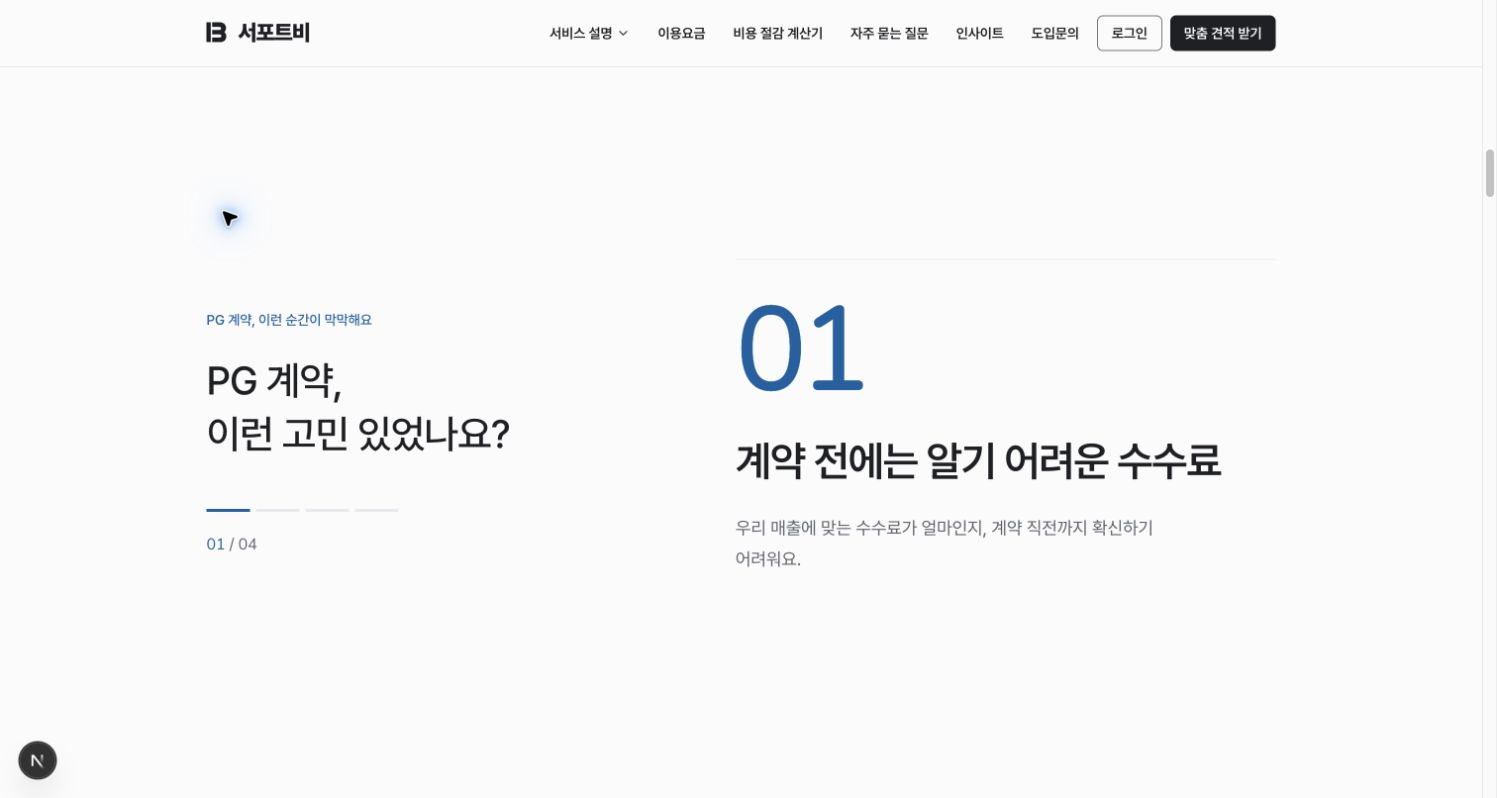
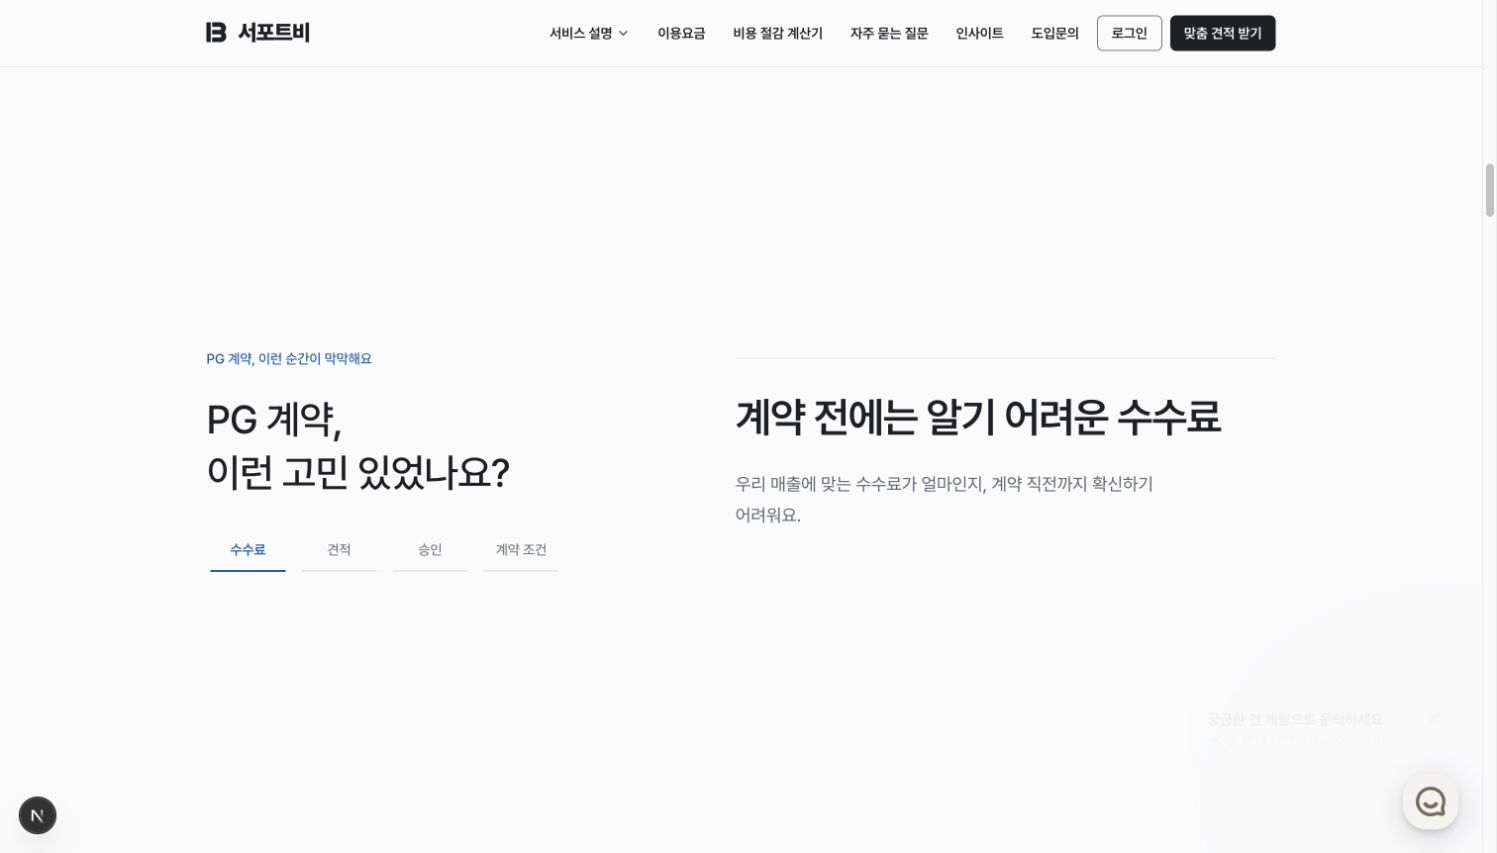
refactor: replace landing problem numbers with keyword navigation

diff --git a/components/landing/scroll-pinned/problem-story.module.css b/components/landing/scroll-pinned/problem-story.module.css
@@ -11,15 +11,14 @@
 .heading { display: flex; flex-direction: column; align-items: flex-start; gap: 24px; }
 .heading h2 { font-size: clamp(28px, 3vw, 40px); line-height: 1.35; text-wrap: balance; }
 .eyebrow { font-size: 14px; line-height: 1.5; font-weight: 500; color: var(--md-sys-color-primary); }
-.progress { margin-top: 4px; width: 194px; }
-.rail { display: flex; gap: 6px; }
-.rail button { height: 44px; min-width: 44px; flex: 1; cursor: pointer; border-radius: 6px; display: flex; align-items: center; background: transparent; }
-.rail button::after { content: ''; height: 3px; width: 100%; background: var(--md-sys-color-outline-variant); transition: background-color 240ms ease, transform 240ms ease; }
-.rail button[data-complete='true']::after { background: var(--md-sys-color-primary); }
-.rail button:hover::after { background: var(--md-sys-color-primary); transform: scaleY(2); }
+.progress { margin-top: 4px; width: 100%; max-width: 360px; }
+.rail { display: flex; gap: 8px; }
+.rail button { min-height: 44px; flex: 1; cursor: pointer; border-radius: 6px; padding: 12px 4px; background: transparent; color: var(--md-sys-color-on-surface-variant); font-size: 14px; line-height: 1.5; white-space: nowrap; position: relative; transition: color 240ms ease, background-color 240ms ease; }
+.rail button::after { content: ''; position: absolute; bottom: 0; left: 4px; right: 4px; height: 2px; background: var(--md-sys-color-outline-variant); transition: background-color 240ms ease; }
+.rail button[aria-current='step'] { color: var(--md-sys-color-primary); font-weight: 600; }
+.rail button[aria-current='step']::after { background: var(--md-sys-color-primary); }
+.rail button:hover { background: var(--md-sys-color-surface-container); }
 .rail button:focus-visible { outline: 2px solid var(--md-sys-color-primary); outline-offset: 2px; }
-.progress p { margin-top: 0; font-size: 16px; line-height: 1.5; color: var(--md-sys-color-primary); }
-.total { color: var(--md-sys-color-on-surface-variant); }
 .stage { display: grid; border-top: 1px solid var(--md-sys-color-outline-variant); }
 .scene {
   grid-area: 1 / 1;
@@ -30,7 +29,6 @@
   padding-block: 32px;
   pointer-events: none;
 }
-.number { font-size: clamp(72px, 9vw, 120px); line-height: 1; letter-spacing: -0.06em; font-weight: 500; color: var(--md-sys-color-primary); }
 .scene h3 { font-size: clamp(28px, 3.2vw, 42px); line-height: 1.3; letter-spacing: -0.03em; font-weight: 600; text-wrap: balance; word-break: keep-all; }
 .scene p { max-width: 26em; font-size: 18px; line-height: 1.75; color: var(--md-sys-color-on-surface-variant); word-break: keep-all; overflow-wrap: anywhere; }
 @media (max-width: 767px) {
@@ -39,11 +37,8 @@
   .heading { gap: 12px; }
   .heading h2 { font-size: 26px; }
   .eyebrow { font-size: 13px; }
-  .progress { margin-top: 4px; width: 100%; display: flex; align-items: center; gap: 16px; }
-  .rail { flex: 1; max-width: 194px; }
-  .progress p { margin-top: 0; font-size: 14px; }
+  .progress { margin-top: 4px; }
   .scene { gap: 16px; padding-block: 20px; }
-  .number { font-size: 56px; }
   .scene h3 { font-size: 28px; }
   .scene p { font-size: 16px; line-height: 1.65; }
 }
@@ -53,6 +48,5 @@
   .heading { gap: 8px; }
   .heading h2 { font-size: 24px; }
   .scene { gap: 12px; padding-block: 16px; }
-  .number { font-size: 48px; }
   .scene h3 { font-size: 26px; }
 }

diff --git a/components/landing/scroll-pinned/ScrollDrivenProblem.tsx b/components/landing/scroll-pinned/ScrollDrivenProblem.tsx
@@ -8,7 +8,7 @@ import { FadeInView } from '@/components/landing/FadeInView';
 import { EASE_OUT } from '@/lib/landing/ease';
 import styles from './problem-story.module.css';
 
-type Item = { num: string; title: string; desc: string };
+type Item = { num: string; keyword?: string; title: string; desc: string };
 
 // Problem 섹션: pin일 때 카드가 스크롤에 따라 1→2→3→4 누적 등장(i<=activeStep이면 표시),
 // 폴백일 때 오늘의 FadeInView 스택. 헤딩(과 선택적 intro)은 위에 고정.
@@ -37,10 +37,9 @@ export function ScrollDrivenProblem({
               <div className={styles.progress}>
                 <div className={styles.rail} role="group" aria-label="문제로 이동">
                   {items.map((item, i) => (
-                    <button type="button" key={item.num} data-complete={i <= activeStep} aria-label={`${item.num}. ${item.title}`} aria-current={i === activeStep ? 'step' : undefined} onClick={() => goToStep(i)} />
+                    <button type="button" key={item.num} aria-current={i === activeStep ? 'step' : undefined} onClick={() => goToStep(i)}>{item.keyword ?? item.title}</button>
                   ))}
                 </div>
-                <p role="progressbar" aria-label="PG 계약의 어려움" aria-valuemin={1} aria-valuemax={items.length} aria-valuenow={activeStep + 1}><span className="md-numeric">{String(activeStep + 1).padStart(2, '0')}</span><span className={styles.total}> / <span className="md-numeric">{String(items.length).padStart(2, '0')}</span></span></p>
               </div>
             </div>
             <div className={styles.stage}>
@@ -53,7 +52,6 @@ export function ScrollDrivenProblem({
                   animate={{ opacity: i === activeStep ? 1 : 0, y: i === activeStep ? 0 : i < activeStep ? -24 : 24 }}
                   transition={{ duration: 0.32, ease: EASE_OUT }}
                 >
-                  <span aria-hidden="true" className={`md-numeric ${styles.number}`}>{item.num}</span>
                   <h3>{item.title}</h3>
                   <p>{item.desc}</p>
                 </motion.article>

diff --git a/components/landing/LandingHero.tsx b/components/landing/LandingHero.tsx
@@ -19,21 +19,25 @@ import { HERO_METRICS } from '@/components/landing/hero-metrics';
 const PROBLEM_ITEMS = [
   {
     num: '01',
+    keyword: '수수료',
     title: '계약 전에는 알기 어려운 수수료',
     desc: '우리 매출에 맞는 수수료가 얼마인지, 계약 직전까지 확신하기 어려워요.',
   },
   {
     num: '02',
+    keyword: '견적',
     title: '견적 하나로 결정하기엔 막막해요',
     desc: '받은 조건이 우리 회사에 맞는지, 더 협의할 여지는 없는지 판단하기 어려워요.',
   },
   {
     num: '03',
+    keyword: '승인',
     title: '도입 준비 중에도 승인은 미지수',
     desc: 'PG사와 카드사 심사가 끝나기 전에는 실제로 도입할 수 있을지 알기 어려워요.',
   },
   {
     num: '04',
+    keyword: '계약 조건',
     title: '수수료 말고도 따질 게 많아요',
     desc: '정산주기부터 보증보험, 가입비까지. 중요한 조건을 충분히 협의하지 못한 채 계약하기도 해요.',
   },

diff --git a/SCREEN_DESIGN.md b/SCREEN_DESIGN.md
@@ -314,7 +314,7 @@ Award (B4에 인라인 통합 — 별도 라우트 없음)
 
 | # | 라우트 | 제목 | 핵심 |
 |---|---|---|---|
-| — | `/` (공개) | 구매사 랜딩 | 서비스·요금·계산기·FAQ·도입문의 섹션 탐색과 현재 위치 표시, 견적 시작·데모 진입. 문제 제기 구간은 제목을 고정하고 스크롤 위치에 따라 네 문제를 하나씩 전환하며 현재 순서와 진행 막대를 표시한다. 진행 막대는 클릭·키보드로 선택할 수 있는 버튼이며 해당 문제의 스크롤 구간으로 부드럽게 이동한다. 데스크톱은 좌우 2열, 모바일은 위아래 1열이며 역스크롤도 같은 순서를 따른다. PG 랜딩의 누적형은 유지한다. |
+| — | `/` (공개) | 구매사 랜딩 | 서비스·요금·계산기·FAQ·도입문의 섹션 탐색과 현재 위치 표시, 견적 시작·데모 진입. 문제 제기 구간은 제목을 고정하고 스크롤 위치에 따라 네 문제를 하나씩 전환하며 숫자 대신 수수료·견적·승인·계약 조건 키워드를 표시하고 현재 키워드를 강조한다. 키워드는 클릭·키보드로 선택할 수 있는 버튼이며 해당 문제의 스크롤 구간으로 부드럽게 이동한다. 데스크톱은 좌우 2열, 모바일은 위아래 1열이며 역스크롤도 같은 순서를 따른다. PG 랜딩의 누적형은 유지한다. |
 | — | `/login` | 로그인 | 이메일 + 비밀번호 |
 | — | `/login/ops` | 운영자 로그인(숨김) | Google OAuth 전용. MASTER_ACCOUNT_EMAILS allowlist default-deny. 킬스위치 off 시 404 |
 | — | `/auth/verify?token=...` | 인증 처리(스플래시) | 토큰 검증 → workspaceType 분기 후 각 profile로 |

diff --git a/docs/screenshots/landing-problem-scroll/README.md b/docs/screenshots/landing-problem-scroll/README.md
@@ -1,8 +1,8 @@
 # 구매사 랜딩 문제 제기 구간
 
-2026-10-23 로컬 개발 서버에서 촬영한 화면이다. 스크롤 위치에 따라 문제를 하나씩 표시하고, 진행 막대 버튼을 클릭하면 해당 문제 구간으로 이동한다.
+2026-10-23 로컬 개발 서버에서 촬영한 화면이다. 스크롤 위치에 따라 문제를 하나씩 표시하고, 키워드 버튼을 클릭하면 해당 문제 구간으로 이동한다.
 
-- [데스크톱](landing-problem-desktop.png): 4번에서 1번 진행 막대를 클릭한 뒤의 화면.
-- [모바일](landing-problem-mobile.png): 390×844 뷰포트에서 3번 진행 막대를 클릭한 뒤의 화면.
+- [데스크톱](landing-problem-desktop.png): 수수료 키워드를 클릭한 뒤의 화면.
+- [모바일](landing-problem-mobile.png): 390×844 뷰포트에서 승인 키워드를 클릭한 뒤의 화면.
 
-브라우저에서 클릭 이동과 현재 단계 표시를 확인했다. 하단 Next.js 표시와 포인터 강조는 개발·캡처 환경의 표시다.
+브라우저에서 클릭 이동과 현재 키워드 강조를 확인했다. 하단 Next.js 표시와 포인터 강조는 개발·캡처 환경의 표시다.

diff --git a/CHANGELOG.md b/CHANGELOG.md
@@ -6,7 +6,7 @@ All notable changes to this project will be documented in this file.
 
 ### Changed
 
-- 구매사 랜딩의 PG 계약 고민을 스크롤에 따라 하나씩 살펴볼 수 있어요. 진행 막대를 누르면 원하는 고민으로 바로 이동하고, 모바일에서도 같은 흐름으로 읽을 수 있어요.
+- 구매사 랜딩의 PG 계약 고민을 스크롤에 따라 하나씩 살펴볼 수 있어요. 수수료·견적·승인·계약 조건 키워드를 누르면 원하는 고민으로 바로 이동하고, 모바일에서도 같은 흐름으로 읽을 수 있어요.
 
 ## [0.42.1.0] - 2026-10-23
 
